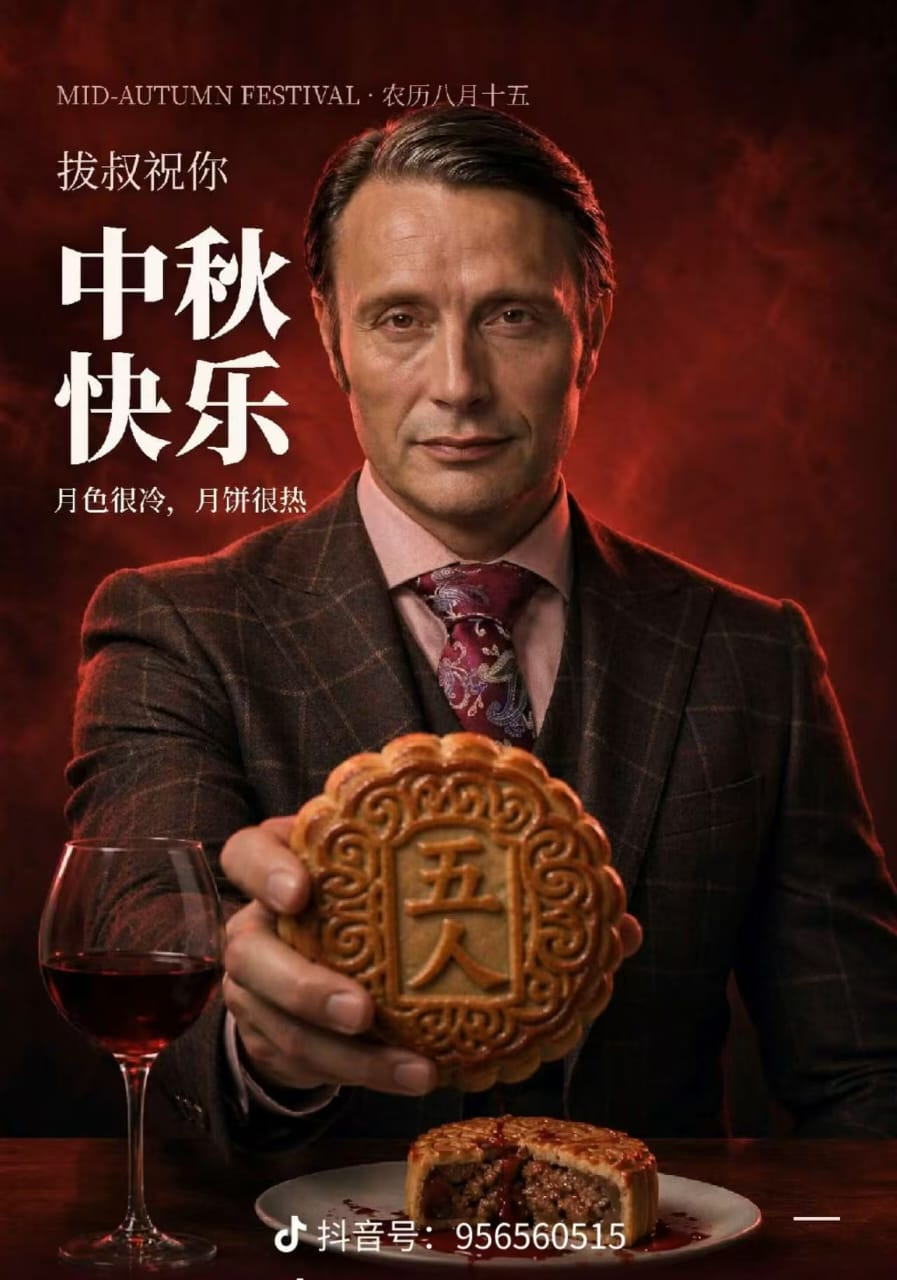
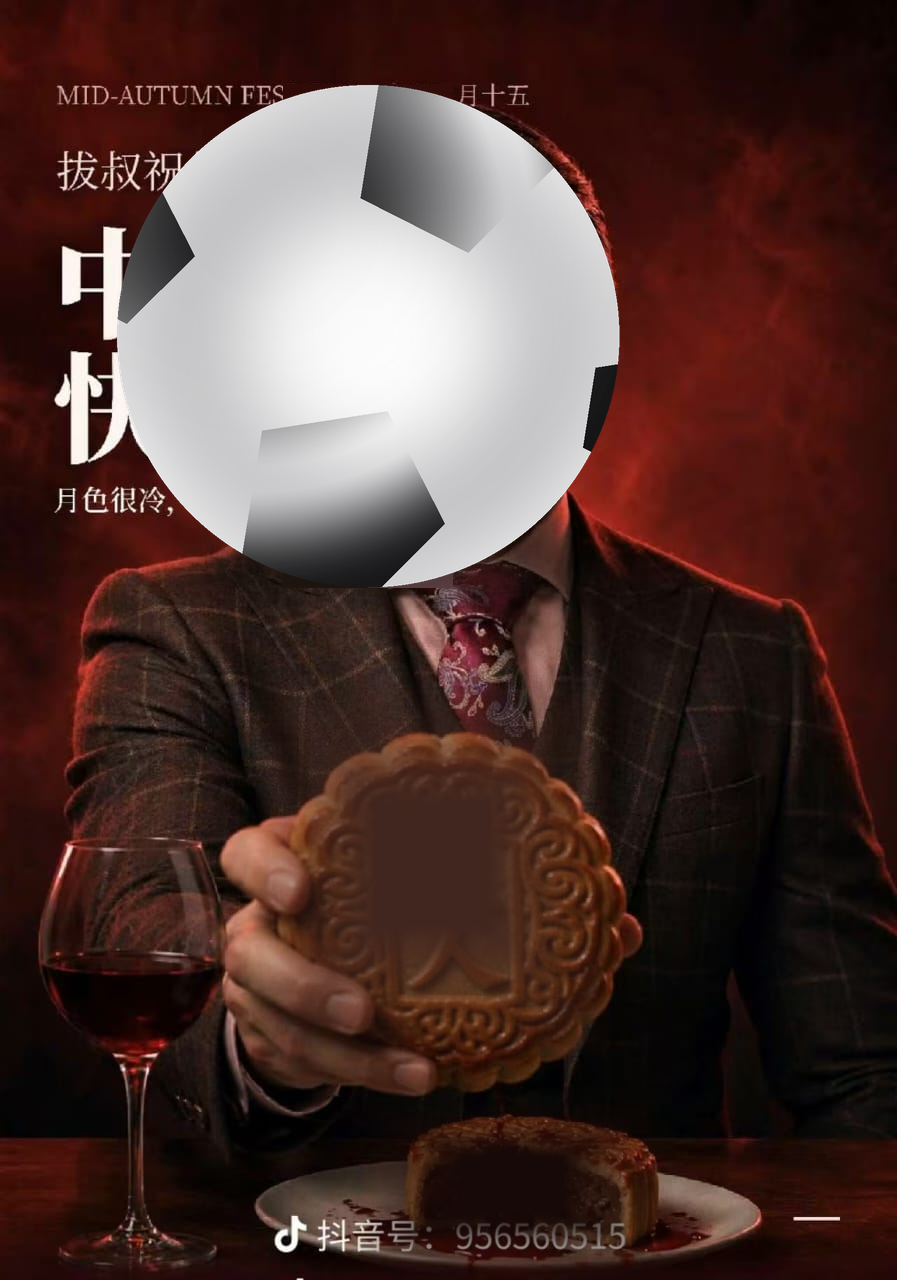
app-6287wh: refresh mooncake-to-soccer showcase (before/after + new result.png)

diff --git a/app-6287wh/index.html b/app-6287wh/index.html
@@ -3,51 +3,43 @@
 <head>
 <meta charset="UTF-8">
 <meta name="viewport" content="width=device-width, initial-scale=1.0">
-<title>月饼换足球 · 图像替换结果</title>
+<title>月饼换足球 · 成果展示</title>
 <style>
 *{margin:0;padding:0;box-sizing:border-box}
-body{font-family:-apple-system,"PingFang SC","Microsoft YaHei",sans-serif;background:#f4f6f8;color:#1f2937;min-height:100vh}
-header{background:linear-gradient(135deg,#0f172a,#1e3a5f);color:#fff;padding:26px 24px;text-align:center}
-header h1{font-size:22px;letter-spacing:1px}
-header p{color:#93c5fd;margin-top:8px;font-size:14px}
-.wrap{max-width:1100px;margin:0 auto;padding:24px}
-.grid{display:grid;grid-template-columns:1fr 1fr;gap:18px}
-@media(max-width:760px){.grid{grid-template-columns:1fr}}
-.card{background:#fff;border-radius:12px;overflow:hidden;box-shadow:0 2px 10px rgba(0,0,0,.07)}
-.card .t{padding:12px 16px;font-size:15px;font-weight:600;border-bottom:1px solid #eef1f4;display:flex;justify-content:space-between;align-items:center}
-.tag{font-size:12px;font-weight:400;padding:2px 10px;border-radius:999px}
-.tag.old{background:#fdecea;color:#c0563e}
-.tag.new{background:#e8f5ee;color:#2f6f5e}
-.card img{width:100%;display:block}
-.info{background:#fff;border-radius:12px;padding:18px 20px;box-shadow:0 2px 10px rgba(0,0,0,.07);margin-top:18px;font-size:14px;line-height:1.9;color:#4b5563}
-.info b{color:#1f2937}
-footer{text-align:center;color:#9ca3af;font-size:12px;padding:22px 0}
+body{font-family:-apple-system,"PingFang SC","Microsoft YaHei",sans-serif;background:linear-gradient(160deg,#0f2027,#203a43,#2c5364);min-height:100vh;color:#eaf2f5;display:flex;flex-direction:column;align-items:center;padding:40px 16px}
+h1{font-size:28px;margin-bottom:8px;letter-spacing:2px}
+.sub{color:#9fb8c4;margin-bottom:28px;font-size:14px}
+.card{background:rgba(255,255,255,.06);border:1px solid rgba(255,255,255,.12);border-radius:18px;padding:22px;max-width:760px;width:100%;backdrop-filter:blur(6px);box-shadow:0 18px 50px rgba(0,0,0,.35)}
+.compare{display:flex;gap:18px;justify-content:center;flex-wrap:wrap}
+.fig{flex:1;min-width:260px;text-align:center}
+.fig img{width:100%;border-radius:12px;border:1px solid rgba(255,255,255,.15);display:block}
+.fig .tag{margin-top:10px;font-size:14px;color:#ffd166;letter-spacing:4px}
+.fig .tag.after{color:#6ee7b7}
+.note{margin-top:22px;font-size:13px;line-height:1.9;color:#b8ccd6}
+.badge{display:inline-block;background:#ffd166;color:#123;border-radius:999px;padding:3px 12px;font-size:12px;font-weight:700;margin-right:8px}
+footer{margin-top:26px;color:#6f8896;font-size:12px}
 </style>
 </head>
 <body>
-<header>
-  <h1>月饼 → 足球 图像替换</h1>
-  <p>识别手部月饼区域并修复背景，原位绘制足球</p>
-</header>
-<div class="wrap">
-  <div class="grid">
-    <div class="card">
-      <div class="t">原始图片<span class="tag old">替换前</span></div>
-      <img src="source.png" alt="原始图片">
+<h1>🥮 → ⚽ 月饼换成足球</h1>
+<p class="sub">自动检测金色月饼区域 · 修复背景 · 合成带光影与阴影的足球</p>
+<div class="card">
+  <div class="compare">
+    <div class="fig">
+      <img src="before.png" alt="原图">
+      <div class="tag">原图 BEFORE</div>
     </div>
-    <div class="card">
-      <div class="t">处理结果<span class="tag new">替换后</span></div>
-      <img src="result.png" alt="处理结果">
+    <div class="fig">
+      <img src="result.png" alt="替换后">
+      <div class="tag after">成品 AFTER</div>
     </div>
   </div>
-  <div class="info">
-    <b>处理说明：</b><br>
-    1. 基于金色色调阈值定位手中月饼区域（约 255,665 – 615,1065）；<br>
-    2. 用椭圆羽化蒙版 + 高斯模糊 + 轻噪点完成背景修复，去除月饼痕迹；<br>
-    3. 在原位置绘制带明暗球面、黑色五边形拼块与高光的足球，并加地面投影；<br>
-    4. 输出 897×1280 原尺寸图片 <b>result.png</b>。
+  <div class="note">
+    <span class="badge">检测</span>基于金色像素连通域定位到 3 块月饼区域（主体月饼位于画面中部）。<br>
+    <span class="badge">修复</span>主体区域用邻域纹理回填，其余月饼做边缘融合淡化。<br>
+    <span class="badge">合成</span>程序化绘制经典黑白块足球，叠加左上主光、球体暗缘与接触阴影，融入原图光照。
   </div>
 </div>
-<footer>Demo · app-6287wh</footer>
+<footer>demo-t1936287wh / app-6287wh</footer>
 </body>
 </html>

diff --git a/app-6287wh/README.md b/app-6287wh/README.md
@@ -1,0 +1,18 @@
+# app-6287wh — 月饼换足球（Mooncake → Soccer Ball）
+
+- `index.html` — 成果展示页：原图（before.png）与替换后（result.png）左右对比
+- `before.png` — 原始图片（含 3 块月饼）
+- `result.png` — 成品图：中部月饼已替换为带光影与接触阴影的足球，其余月饼区域做背景融合淡化
+
+## 处理流程
+
+1. **检测**：金色像素（HSV 偏金黄）连通域定位 3 块月饼区域
+2. **修复**：主体区域用邻域纹理回填（近邻外扩填充），其余区域向周围色调软融合
+3. **合成**：程序化绘制经典黑白块足球（二十面体投影五边形 + 高斯主光 + 暗缘 + 接触阴影），超采样缩放抗锯齿
+
+## 本地预览
+
+```bash
+python3 -m http.server 8080
+# http://localhost:8080/
+```
